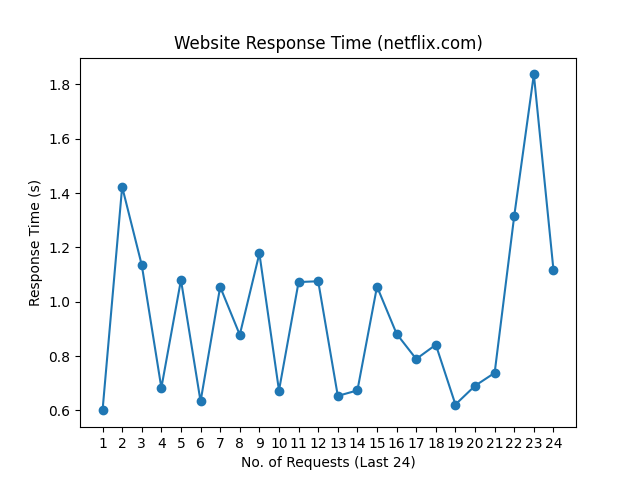
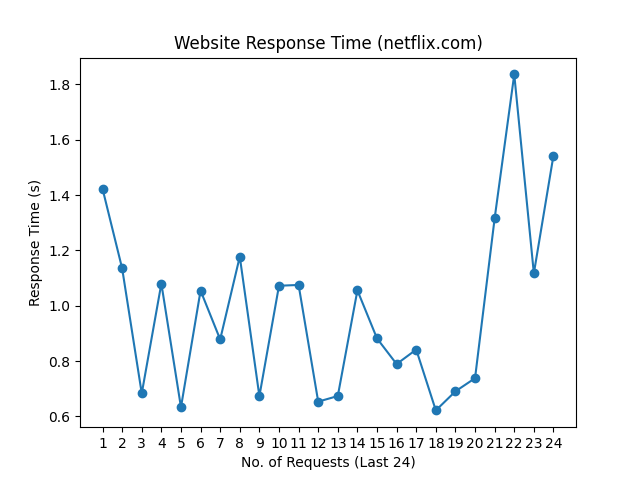
update README.md, history and graph

diff --git a/README.md b/README.md
@@ -1,10 +1,10 @@
 # Web Monitoring
 
-Last Checked: 26/02/2025 08:20
+Last Checked: 27/02/2025 08:20
 
 | Website | Response Time (s) | Status | Avg Uptime (%) |
 |---------|-------------------|--------|----------------|
 | www.thiswebsiteisdown.net | 0 <br> <img src="graph/thiswebsiteisdown.net.png" alt="Graph" width="200" height="200">  | ❌ Down | 0.00 |
-| www.netflix.com | 1.117256 <br> <img src="graph/netflix.com.png" alt="Graph" width="200" height="200">  | ✅ Up | 99.82 |
-| www.google.com | 0.232580 <br> <img src="graph/google.com.png" alt="Graph" width="200" height="200">  | ✅ Up | 100.00 |
-| www.facebook.com | 0.730444 <br> <img src="graph/facebook.com.png" alt="Graph" width="200" height="200">  | ✅ Up | 100.00 |
+| www.netflix.com | 1.542937 <br> <img src="graph/netflix.com.png" alt="Graph" width="200" height="200">  | ✅ Up | 99.82 |
+| www.google.com | 0.079573 <br> <img src="graph/google.com.png" alt="Graph" width="200" height="200">  | ✅ Up | 100.00 |
+| www.facebook.com | 0.325457 <br> <img src="graph/facebook.com.png" alt="Graph" width="200" height="200">  | ✅ Up | 100.00 |
